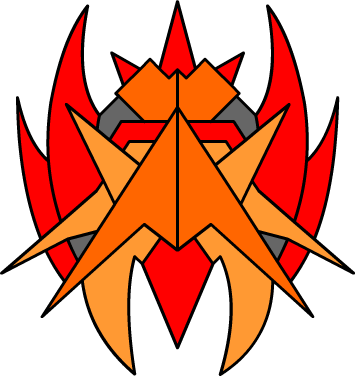
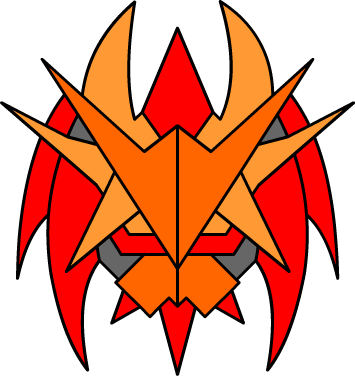
Added basic head drawing

diff --git a/js/enemy/ropeTail.js b/js/enemy/ropeTail.js
@@ -5,6 +5,7 @@ function RopeTail(source, segment, end, length, offset, base, endOffset, constra
     this.pos = Vector(source.x, source.y - base - offset);
     this.offset = base;
     this.sprite = length <= 1 ? end : segment;
+    this.locked = false;
     
     constraint = Math.PI * constraint / 180;
     
@@ -23,28 +24,109 @@ RopeTail.prototype.update = function() {
     this.dir.x = this.source.cos;
     this.dir.y = this.source.sin;
     this.dir.Rotate(this.rel.x, this.rel.y);
+    if (this.reverse) this.dir.Rotate(-1, 0);
     this.pos.x = 0;
     this.pos.y = -this.offset;
     this.pos.Rotate(this.dir.y, -this.dir.x);
     this.pos.Add(this.source.x, this.source.y);
     
-    // Update other segments
-    for (var i = 0; i < this.segments.length; i++) {
-        this.segments[i].update();
-    }
+    this.clamp();
     
     canvas.save();
     
-    // Draw the other segments
+    // Draw everything
+    if (this.reverse) this.draw();
     for (var i = this.segments.length - 1; i >= 0; i--) {
-        this.segments[i].draw();
+        var j = this.reverse ? this.segments.length - 1 - i : i;
+        this.segments[j].draw();
     }
+    if (!this.reverse) this.draw();
     
-    // Draw the root
+    canvas.restore();
+}
+
+// Draws the root of the rope tail
+RopeTail.prototype.draw = function() {
     ResetTransform(canvas);
     canvas.translate(this.pos.x, this.pos.y);
     canvas.transform(this.dir.y, -this.dir.x, this.dir.x, this.dir.y, 0, 0);
     canvas.drawImage(this.sprite, -this.sprite.width / 2, -this.sprite.height / 2);
+}
+
+RopeTail.prototype.followParent = function() {
     
-    canvas.restore();
+    if (this.prevX !== undefined && this.prevY !== undefined) {
+        this.pos.Add(this.source.x - this.prevX, this.source.y - this.prevY);
+        for (var i = 0; i < this.segments.length; i++) {
+            this.segments[i].pos.Add(this.source.x - this.prevX, this.source.y - this.prevY);
+        }
+    }
+    
+    this.prevX = this.source.x;
+    this.prevY = this.source.y;
+}
+
+// Clamps segments to their proper positions/rotations
+RopeTail.prototype.clamp = function() {
+
+    // While locked, force directions on segments
+    if (this.locked) {
+        for (var i = 0; i < this.segments.length; i++) {
+            var s = this.segments[i];
+            s.dir = this.locked[i];
+            s.pos.x = s.parent.pos.x - s.dir.x * s.offset;
+            s.pos.y = s.parent.pos.y - s.dir.y * s.offset;
+        }
+    }
+    
+    // Update other segments normally otherwise
+    else {
+        for (var i = 0; i < this.segments.length; i++) {
+            this.segments[i].update();
+        }
+    }
+}
+
+// Gets the total rotation through the tail (the direction the tail is pointing)
+RopeTail.prototype.getEndDir = function() {
+    var d = this.segments[this.segments.length - 1].dir;
+    return Vector(d.x, d.y);
+}
+
+// Turns the tail towards the given direction
+ROPE_TURN_ALL = 0;
+ROPE_TURN_END = 1;
+ROPE_TURN_ROOT = 2;
+RopeTail.prototype.turnTowards = function(dir, speed, mode) {
+    
+    var d = this.getEndDir();
+    d.Rotate(0, 1);
+    var m = d.Dot(dir) > 0 ? 1 : -1;
+    
+    if (mode == 1) {
+        var t = (this.segments.length + 1) * (this.segments.length / 2);
+        var s = 0;
+        for (var i = 0; i < this.segments.length; i++) {
+            s += speed * (i + 1) / t;
+            this.segments[i].rotate(Math.cos(s), m * Math.sin(s));
+        }
+    }
+    
+    else if (mode == 2) {
+        var t = (this.segments.length + 1) * (this.segments.length / 2);
+        var s = 0;
+        for (var i = 0; i < this.segments.length; i++) {
+            s += speed * (this.segments.length - i) / t;
+            this.segments[i].rotate(Math.cos(s), m * Math.sin(s));
+        }
+    }
+    
+    else {
+        var t = speed / this.segments.length;
+        var s = 0;
+        for (var i = 0; i < this.segments.length; i++) {
+            s += t;
+            this.segments[i].rotate(Math.cos(s), m * Math.sin(s));
+        }
+    }
 }

diff --git a/js/enemy/hydraRoyal.js b/js/enemy/hydraRoyal.js
@@ -51,8 +51,22 @@ function RoyalHydra(x, y) {
         canvas.restore();
 	}
     
+    // Hydra's heads
+    enemy.head = new RopeTail(enemy, GetImage('hydraRoyalNeck'), GetImage('hydraRoyalHeadLarge'), 3, 125, 150, 0, 0);
+    enemy.headLeft = new RopeTail(enemy, GetImage('hydraRoyalNeck'), GetImage('hydraRoyalHeadSmall'), 4, 125, 300, 0, 20);
+    enemy.headRight = new RopeTail(enemy, GetImage('hydraRoyalNeck'), GetImage('hydraRoyalHeadSmall'), 4, 125, 300, 50, 20);
+    enemy.head.reverse = enemy.headLeft.reverse = enemy.headRight.reverse = true;
+    enemy.headLeft.rel = Vector(COS_60, SIN_60);
+    enemy.headRight.rel = Vector(COS_60, -SIN_60);
     enemy.ApplySprite = function() {
+        this.head.update();
         
+        this.headLeft.followParent();
+        this.headRight.followParent();
+        this.headLeft.turnTowards(this.head.dir, 0.02, ROPE_TURN_END);
+        this.headRight.turnTowards(this.head.dir, 0.02, ROPE_TURN_END);
+        this.headLeft.update();
+        this.headRight.update();
     }
 
     return enemy;

diff --git a/js/util.js b/js/util.js
@@ -20,6 +20,7 @@ function Vector(x, y) {
         Length: vectorMethods.Length,
         LengthSq: vectorMethods.LengthSq,
         Rotate: vectorMethods.Rotate,
+        RotateAround: vectorMethods.RotateAround,
         Set: vectorMethods.Set,
         Add: vectorMethods.Add,
         SetLength: vectorMethods.SetLength,
@@ -83,6 +84,23 @@ var vectorMethods = {
         var tx = this.x * cos - this.y * sin;
         this.y = this.x * sin + this.y * cos;
         this.x = tx;
+		return this;
+    },
+    
+    // Rotates the vector using the cos/sin values 
+    // or an angle if one argument is provided around
+    // the given coordinates
+    RotateAround: function(cos, sin, pos) {
+        if (pos == undefined) {
+            pos = sin;
+            sin = Math.sin(cos);
+            cos = Math.cos(cos);
+        }
+        this.x -= pos.x;
+        this.y -= pos.y;
+        this.Rotate(cos, sin);
+        this.x += pos.x;
+        this.y += pos.y;
 		return this;
     },
     

diff --git a/js/enemy/tailSegment.js b/js/enemy/tailSegment.js
@@ -49,3 +49,7 @@ TailSegment.prototype.draw = function() {
     canvas.transform(this.dir.y, -this.dir.x, this.dir.x, this.dir.y, 0, 0);
     canvas.drawImage(this.sprite, -this.sprite.width / 2, -this.sprite.height / 2);
 }
+
+TailSegment.prototype.rotate = function(cos, sin) {
+    this.pos.RotateAround(cos, sin, this.parent.pos);
+}

diff --git a/js/gameScreen.js b/js/gameScreen.js
@@ -277,7 +277,7 @@ function GameScreen(bossRush) {
     // Updates the music depending on the state of the game
     this.UpdateMusic = UpdateMusic;
     function UpdateMusic() {
-
+        return;
         // Player must be alive for the music to play
         if (!this.gameOver) {
         
